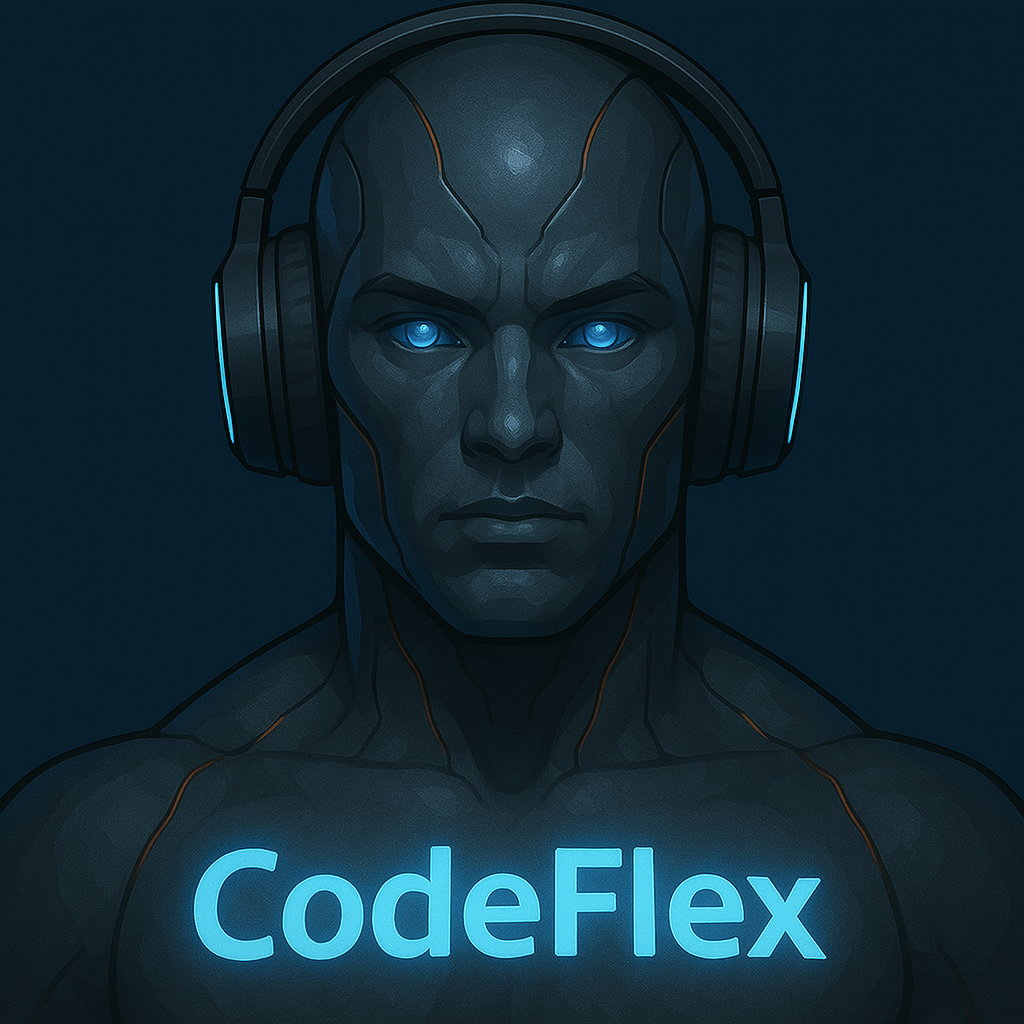
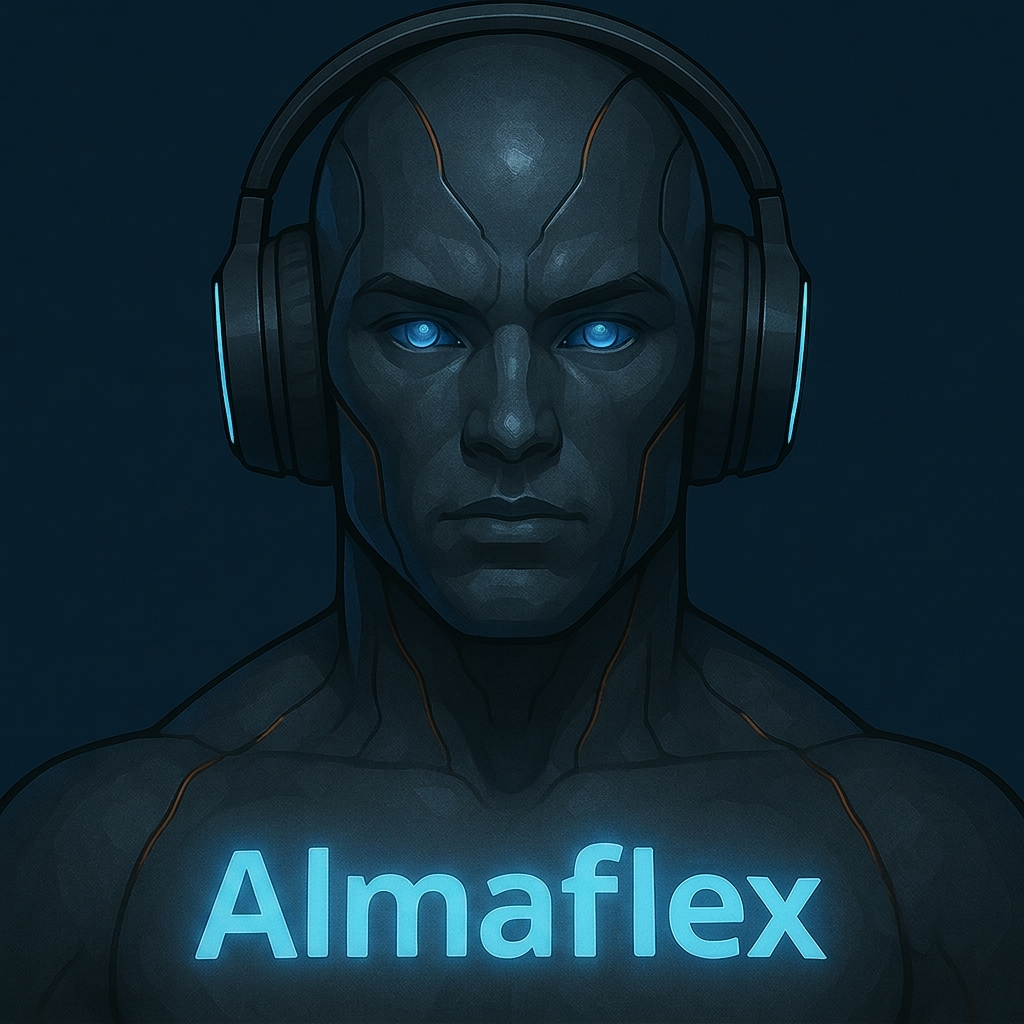
feat: implement GenerateProgramPage with AI interaction, user management, and call controls

diff --git a/src/app/generate-program/page.tsx b/src/app/generate-program/page.tsx
@@ -1,9 +1,324 @@
-import React from 'react'
+"use client"
+import { Button } from "@/components/ui/button"
+import { Card } from "@/components/ui/card"
+import { vapi } from "@/lib/vapi"
+import { useUser } from "@clerk/nextjs"
+import { useRouter } from "next/navigation"
+import { useEffect, useRef, useState } from "react";
 
 const GenerateProgramPage = () => {
+  const [callActive, setCallActive] = useState(false)
+  const [connecting, setConnecting] = useState(false)
+  const [isSpeaking, setIsSpeaking] = useState(false)
+  const [messages, setMessages] = useState<any[]>([])
+  const [callEnded, setCallEnded ] = useState(false)
+
+  const {user} = useUser()
+  const router = useRouter()
+
+  const messageContainerRef = useRef<HTMLDivElement>(null)
+
+  // Solusi untuk mengatasi error saat berinterikasi denagn user
+  useEffect(() => {
+    const originalError = console.error
+    //menimpa console.error untuk mengabaikan error 'Meeting has ended
+    console.error = function (msg, ...args) {
+      if(
+        msg &&
+        (msg.includes("Pertemuan telah selesai") ||
+      (args[0] && args[0].toString().includes("Pertemuan telah selesai"))) 
+      ) {
+        console.log("Mengabaikan error yang diketahui: Rapat telah berakhir")
+        return
+      }
+
+      // Mengabaikan semua error ke original handler
+      return originalError.call(console, msg, ...args)
+    }
+
+      // Mengembalikan fungsi bawaan semula saat komponen dilepas
+    return () => {
+      console.error = originalError
+    }
+  }, [])
+
+
+    // auto-scroll pesan
+    useEffect(() => {
+      if (messageContainerRef.current) {
+        messageContainerRef.current.scrollTop = messageContainerRef.current.scrollHeight
+      }
+    }, [messages])
+
+
+    // Navigasi user ke halaman profil setelah penggilan selesai
+    useEffect(() => {
+      if (callEnded) {
+        const redirectTimer = setTimeout(() => {
+          router.push("/profile")
+        }, 1500)
+        return () => clearTimeout(redirectTimer)
+      }
+    }, [callEnded, router])
+
+
+    // Persiapan fungsi pendengar untuk vapi
+    useEffect(() => {
+      const handleCallStart = () => {
+        console.log("Call started")
+        setConnecting(false)
+        setCallActive(true)
+        setCallEnded(false)
+      }
+
+      const handleCallEnd = () => {
+        console.log("Call Ended")
+        setCallActive(false)
+        setConnecting(false)
+        setIsSpeaking(false)
+        setCallEnded(true)
+      }
+
+      const handleSpeechStart = () => {
+        console.log("AI started Speaking")
+        setIsSpeaking(true)
+      }
+
+      const handleSpeechEnd = () => {
+        console.log("AI stopped Speaking")
+        setIsSpeaking(false)
+      }
+      const handleMessage = (message: any) => {
+        if (message.type === "transcript" && message.transcriptType === "final") {
+          const newMessage = { content: message.transcript, role: message.role}
+          setMessages((prev) => [...prev, newMessage])
+        }
+      }
+
+      const handleError = (error: any) => {
+        console.log("Vapi Error", error)
+        setConnecting(false)
+        setCallActive(false)
+      }
+
+      vapi
+      .on("call-start", handleCallStart)
+      .on("call-end", handleCallEnd)
+      .on("speech-start", handleSpeechStart)
+      .on("speech-end", handleSpeechEnd)
+      .on("message", handleMessage)
+      .on("error", handleError)
+
+      // Membersihkan sesi pendengar saat komponen tidak lepas
+      return () => {
+        vapi
+        .off("call-start", handleCallStart)
+        .off("call-end", handleCallEnd)
+        .off("speech-start", handleSpeechStart)
+        .off("speech-end", handleSpeechEnd)
+        .off("message", handleMessage)
+        .off("error", handleError);
+      }
+    }, [])
+
+    const toggleCall = async () => {
+      if (callActive) vapi.stop()
+        else {
+      try {
+        setConnecting(true)
+        setMessages([])
+        setCallEnded(false)
+
+        const fullName = user?.firstName
+          ? `${user.firstName} ${user.lastName || ""}`.trim()
+          : "There"
+
+          await vapi.start(process.env.NEXT_PUBLIC_VAPI_WORKFLOW_ID!, {
+            variableValues: {
+              full_name: fullName,
+              user_id: user?.id,
+            },
+          })
+      } catch (error) {
+        console.log("Gagal memullai panggilan", error)
+        setConnecting(false)
+      }
+    }
+    }
+
   return (
-    <div>
-      generate
+          <div className="flex flex-col min-h-screen text-foreground overflow-hidden  pb-6 pt-24">
+      <div className="container mx-auto px-4 h-full max-w-5xl">
+        {/* Title */}
+        <div className="text-center mb-8">
+          <h1 className="text-3xl font-bold font-mono">
+            <span>Generate Your </span>
+            <span className="text-primary uppercase">Fitness Program</span>
+          </h1>
+          <p className="text-muted-foreground mt-2">
+           Lakukan percakapan dengan assistant AI ini dan buatlah rencana program anda
+          </p>
+        </div>
+
+        {/* VIDEO CALL AREA */}
+        <div className="grid grid-cols-1 md:grid-cols-2 gap-6 mb-8">
+          {/* AI ASSISTANT CARD */}
+          <Card className="bg-card/90 backdrop-blur-sm border border-border overflow-hidden relative">
+            <div className="aspect-video flex flex-col items-center justify-center p-6 relative">
+              {/* AI VOICE ANIMATION */}
+              <div
+                className={`absolute inset-0 ${
+                  isSpeaking ? "opacity-30" : "opacity-0"
+                } transition-opacity duration-300`}
+              >
+                {/* Voice wave animation when speaking */}
+                <div className="absolute left-0 right-0 top-1/2 -translate-y-1/2 flex justify-center items-center h-20">
+                  {[...Array(5)].map((_, i) => (
+                    <div
+                      key={i}
+                      className={`mx-1 h-16 w-1 bg-primary rounded-full ${
+                        isSpeaking ? "animate-sound-wave" : ""
+                      }`}
+                      style={{
+                        animationDelay: `${i * 0.1}s`,
+                        height: isSpeaking ? `${Math.random() * 50 + 20}%` : "5%",
+                      }}
+                    />
+                  ))}
+                </div>
+              </div>
+
+              {/* AI IMAGE */}
+              <div className="relative size-32 mb-4">
+                <div
+                  className={`absolute inset-0 bg-primary opacity-10 rounded-full blur-lg ${
+                    isSpeaking ? "animate-pulse" : ""
+                  }`}
+                />
+
+                <div className="relative w-full h-full rounded-full bg-card flex items-center justify-center border border-border overflow-hidden">
+                  <div className="absolute inset-0 bg-gradient-to-b from-primary/10 to-secondary/10"></div>
+                  <img
+                    src="/ai-avatar.png"
+                    alt="AI Assistant"
+                    className="w-full h-full object-cover"
+                  />
+                </div>
+              </div>
+
+              <h2 className="text-xl font-bold text-foreground">Almaflex</h2>
+              <p className="text-sm text-muted-foreground mt-1">Fitness & Diet Coach</p>
+
+              {/* SPEAKING INDICATOR */}
+
+              <div
+                className={`mt-4 flex items-center gap-2 px-3 py-1 rounded-full bg-card border border-border ${
+                  isSpeaking ? "border-primary" : ""
+                }`}
+              >
+                <div
+                  className={`w-2 h-2 rounded-full ${
+                    isSpeaking ? "bg-primary animate-pulse" : "bg-muted"
+                  }`}
+                />
+
+                <span className="text-xs text-muted-foreground">
+                  {isSpeaking
+                    ? "Speaking..."
+                    : callActive
+                      ? "Listening..."
+                      : callEnded
+                        ? "Redirecting to profile..."
+                        : "Waiting..."}
+                </span>
+              </div>
+            </div>
+          </Card>
+
+          {/* USER CARD */}
+          <Card className={`bg-card/90 backdrop-blur-sm border overflow-hidden relative`}>
+            <div className="aspect-video flex flex-col items-center justify-center p-6 relative">
+              {/* User Image */}
+              <div className="relative size-32 mb-4">
+                <img
+                  src={user?.imageUrl}
+                  alt="User"
+                  // ADD THIS "size-full" class to make it rounded on all images
+                  className="size-full object-cover rounded-full"
+                />
+              </div>
+
+              <h2 className="text-xl font-bold text-foreground">You</h2>
+              <p className="text-sm text-muted-foreground mt-1">
+                {user ? (user.firstName + " " + (user.lastName || "")).trim() : "Guest"}
+              </p>
+
+              {/* User Ready Text */}
+              <div className={`mt-4 flex items-center gap-2 px-3 py-1 rounded-full bg-card border`}>
+                <div className={`w-2 h-2 rounded-full bg-muted`} />
+                <span className="text-xs text-muted-foreground">Ready</span>
+              </div>
+            </div>
+          </Card>
+        </div>
+
+        {/* MESSAGE COINTER  */}
+        {messages.length > 0 && (
+          <div
+            ref={messageContainerRef}
+            className="w-full bg-card/90 backdrop-blur-sm border border-border rounded-xl p-4 mb-8 h-64 overflow-y-auto transition-all duration-300 scroll-smooth"
+          >
+            <div className="space-y-3">
+              {messages.map((msg, index) => (
+                <div key={index} className="message-item animate-fadeIn">
+                  <div className="font-semibold text-xs text-muted-foreground mb-1">
+                    {msg.role === "assistant" ? "CodeFlex AI" : "You"}:
+                  </div>
+                  <p className="text-foreground">{msg.content}</p>
+                </div>
+              ))}
+
+              {callEnded && (
+                <div className="message-item animate-fadeIn">
+                  <div className="font-semibold text-xs text-primary mb-1">Sistem:</div>
+                  <p className="text-foreground">
+                    Rencana program fitnes mu berhasil dibuat! Mengalihkan ke profil anda
+                  </p>
+                </div>
+              )}
+            </div>
+          </div>
+        )}
+
+        {/* CALL CONTROLS */}
+        <div className="w-full flex justify-center gap-4">
+          <Button
+            className={`w-40 text-xl rounded-3xl ${
+              callActive
+                ? "bg-destructive hover:bg-destructive/90"
+                : callEnded
+                  ? "bg-green-600 hover:bg-green-700"
+                  : "bg-primary hover:bg-primary/90"
+            } text-white relative`}
+            onClick={toggleCall}
+            disabled={connecting || callEnded}
+          >
+            {connecting && (
+              <span className="absolute inset-0 rounded-full animate-ping bg-primary/50 opacity-75"></span>
+            )}
+
+            <span>
+              {callActive
+                ? "End Call"
+                : connecting
+                  ? "Connecting..."
+                  : callEnded
+                    ? "View Profile"
+                    : "Start Call"}
+            </span>
+          </Button>
+        </div>
+      </div>
     </div>
   )
 }
